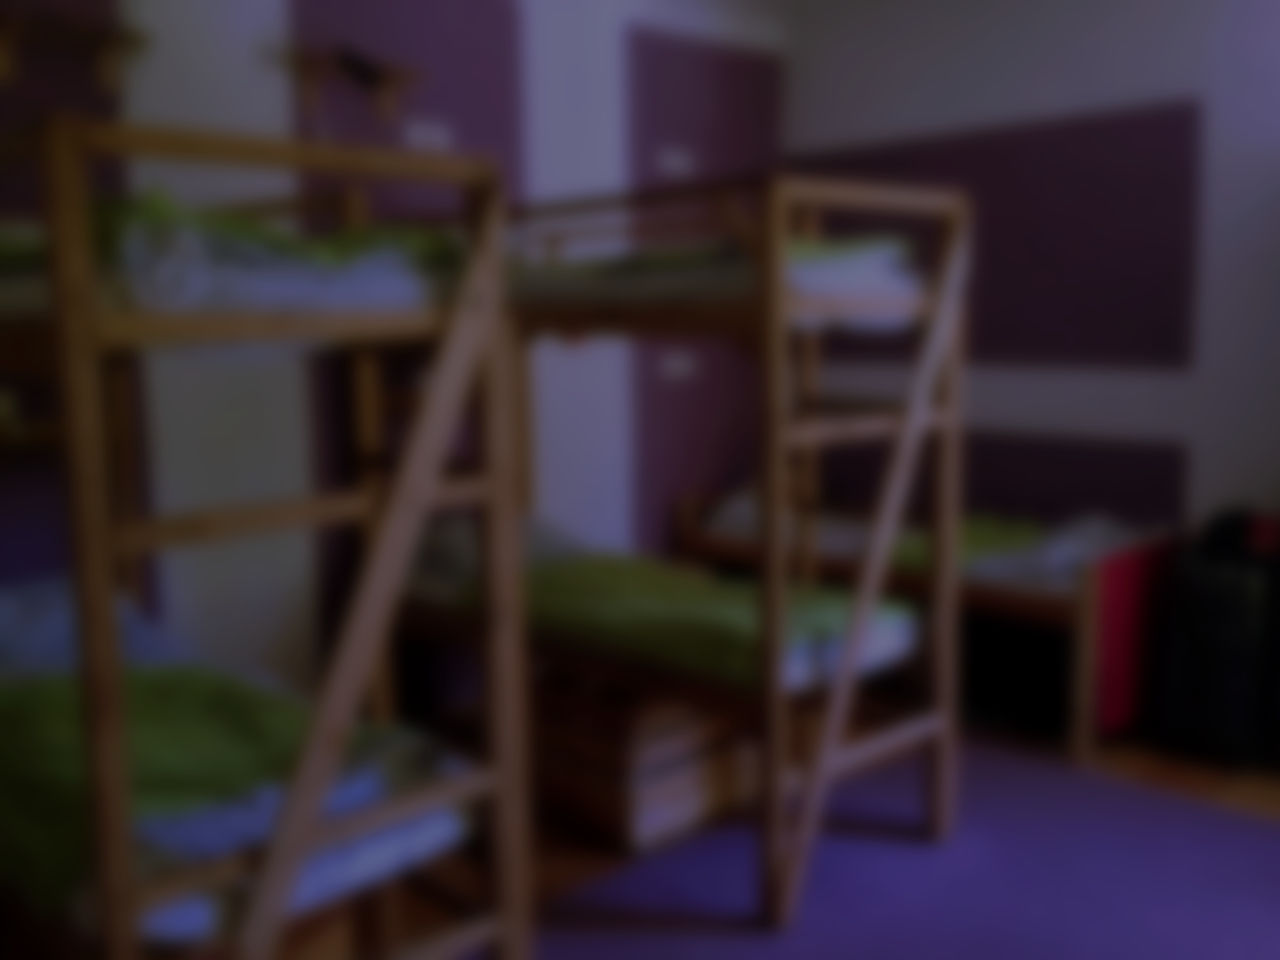
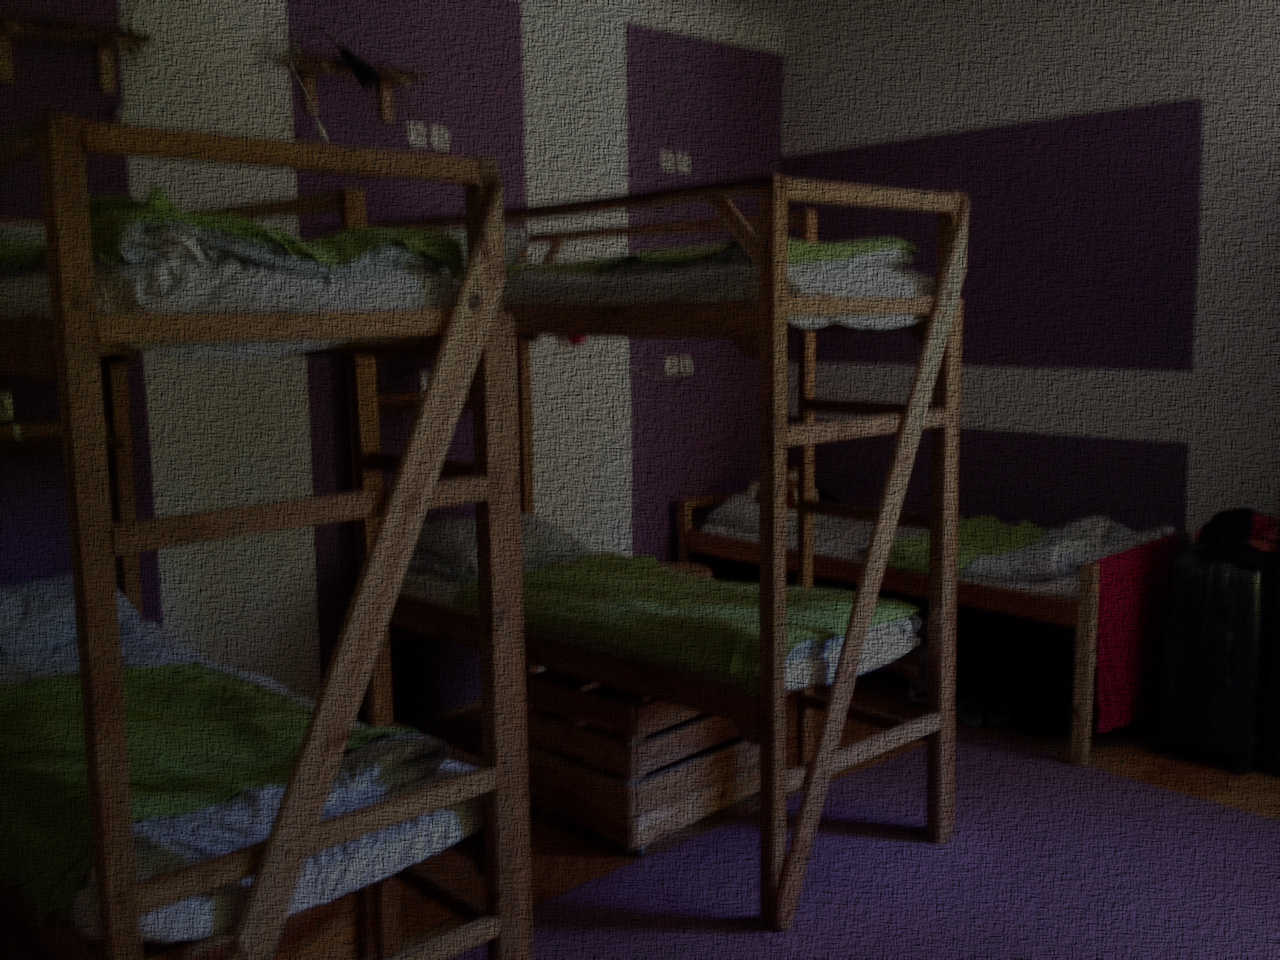
image size compressed

diff --git a/app/index.html b/app/index.html
@@ -22,7 +22,6 @@
     <script src="/bower_components/modernizr/modernizr.js"></script>
     <!-- endbuild -->
   </head>
-  <>
   <div class="jumbotron main">
     <div class="container">
       <div class="row">

diff --git a/app/scripts/main.js b/app/scripts/main.js
@@ -1,3 +1,3 @@
 $(document).ready(function(){
-  $('.main').backstretch('images/bg2.JPG');
+  $('.main').backstretch('images/bg.jpg');
 });
